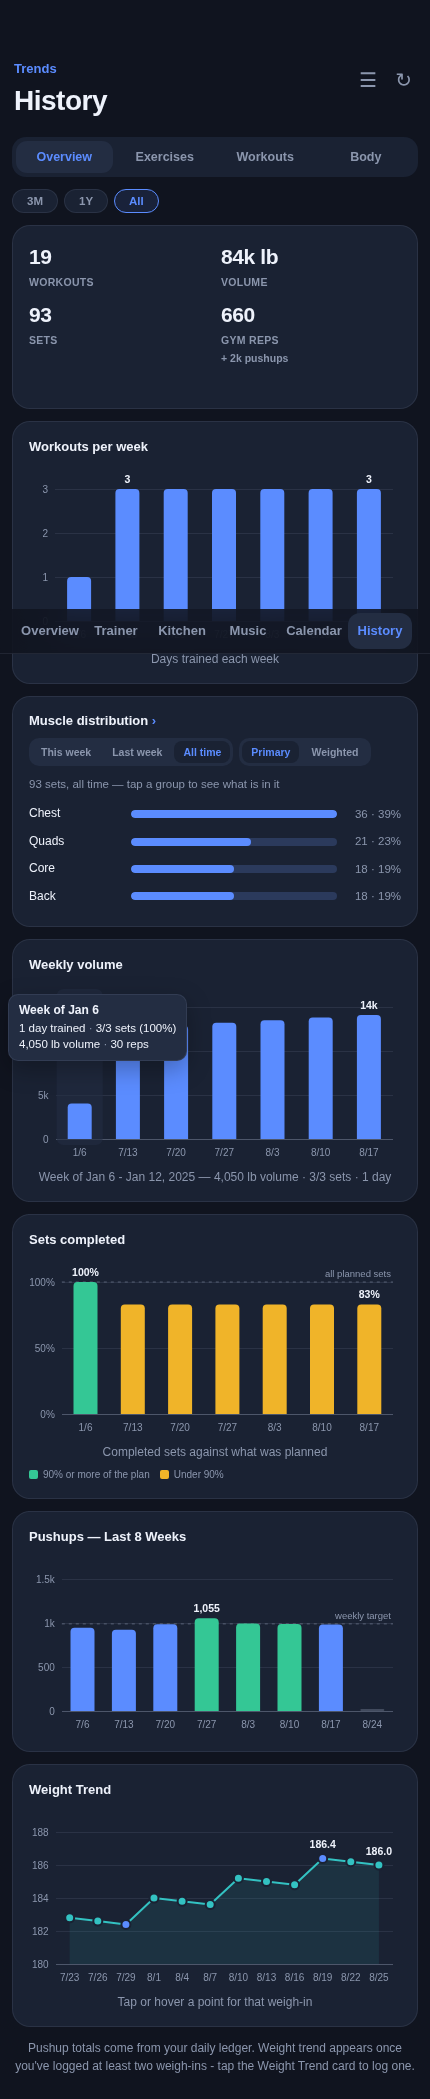
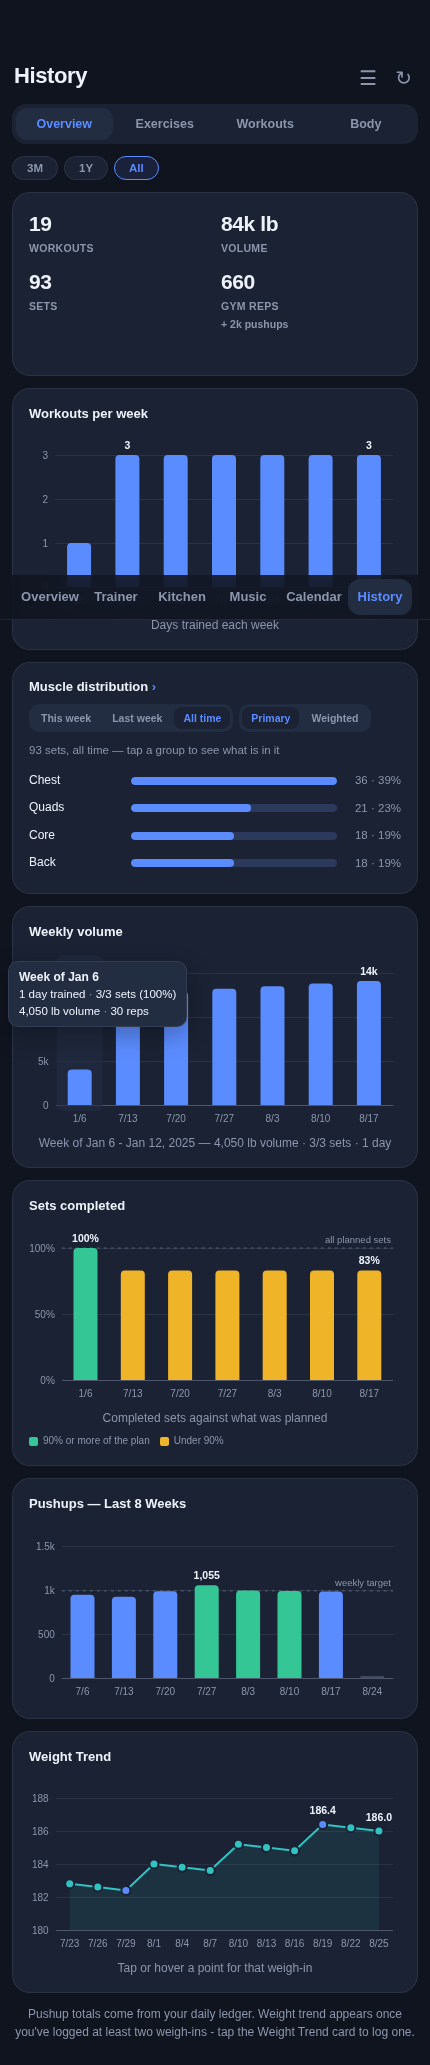
Drop the tab eyebrow line and shrink the page titles
"Trends" over History, "Body Health" over Health, "Kitchen" over
Kitchen - a line of chrome restating the title beneath it, on a screen
whose tab bar already says which tab you are on. Removed, and the title
goes 28px to 22px with tighter header padding.

Overview's eyebrow stays: it is the live week label, so dropping it
would cost information rather than chrome.

Scoped to the views. The same class names dress the modal sheets, where
28px is the established weight and there is no wasted column to reclaim,
so those are untouched. Kitchen's cook animation came down 76px to 48px
- at full size it set that header's height by itself, which is exactly
the space the smaller title was meant to give back.

The test renders the previous commit alongside the working tree and
compares where the first real content sits, because a header can shed a
line and gain it back in padding - that measures as a change and
reclaims nothing. Content moved up on all four tabs, 116px total:
History +33, Health +37, Kitchen +36, Overview +10.

Claude-Session: https://claude.ai/code/session_015iHyh9Ht31ffHsSsW3gFXR

diff --git a/test/test_page_heads.js b/test/test_page_heads.js
@@ -1,0 +1,150 @@
+/* The tab headers, after dropping the eyebrow line and shrinking the
+   title.
+
+   The assertion that matters is not "the title is 22px" - it is that the
+   CONTENT MOVED UP. A header can lose a line and gain it back in padding,
+   which measures as a change and reclaims nothing. So this measures the
+   same page twice, once from the previous commit and once from the working
+   tree, and compares where the first real content sits.
+
+   Also pinned: no tab lost its title or its buttons, Overview keeps its
+   week label (a live date, not a restatement of the title), and the modal
+   sheets - which share these class names - did NOT shrink with them. */
+const { chromium } = require('playwright');
+const { execFileSync } = require('child_process');
+const path = require('path');
+const fs = require('fs');
+const os = require('os');
+
+const REPO = path.resolve(__dirname, '..');
+const URL = 'file://' + path.join(REPO, 'Workout_Tracker_AutoLog.html');
+let fails = 0;
+const check = (l, ok, x = '') => { console.log(`  ${ok ? 'PASS' : 'FAIL'}  ${l}${x ? '  ' + x : ''}`); if (!ok) fails++; };
+
+// bodyhealth is not in viewOrder (its tab is display:none), so it is shown
+// directly rather than through the tab bar.
+const VIEWS = [
+  ['stats', 'History', '#view-stats'],
+  ['bodyhealth', 'Health', '#view-bodyhealth'],
+  ['kitchen', 'Kitchen', '#view-kitchen'],
+  ['overview', 'Overview', '#view-overview']
+];
+
+const measure = (page, sel) => page.evaluate(s => {
+  const view = document.querySelector(s);
+  const h = view.querySelector(':scope > .ov-page-head');
+  if (!h) return null;
+  const t = h.querySelector('.ov-page-title');
+  const eyebrow = h.querySelector('.ov-page-week');
+  let next = h.nextElementSibling;
+  while (next && next.getBoundingClientRect().height === 0) next = next.nextElementSibling;
+  return {
+    height: Math.round(h.getBoundingClientRect().height),
+    title: t ? t.textContent.trim() : null,
+    titlePx: t ? Math.round(parseFloat(getComputedStyle(t).fontSize)) : null,
+    eyebrow: eyebrow ? eyebrow.textContent.trim() : null,
+    buttons: h.querySelectorAll('button').length,
+    contentTop: next ? Math.round(next.getBoundingClientRect().top) : null
+  };
+}, sel);
+
+// bodyhealth has no tab, so reveal it the way the app would if it did.
+const show = (page, view) => page.evaluate(v => {
+  if (v === 'bodyhealth') {
+    document.querySelectorAll('.app-view').forEach(el => el.classList.remove('active'));
+    const el = document.getElementById('view-bodyhealth');
+    el.classList.add('active'); el.style.display = 'block';
+  } else { showAppView(v); }
+}, view);
+
+async function sweep(browser, url) {
+  const ctx = await browser.newContext({ viewport: { width: 430, height: 932 } });
+  const page = await ctx.newPage();
+  page.on('pageerror', e => { console.log('  PAGEERROR', String(e)); fails++; });
+  await page.route('https://script.google.com/**', r =>
+    r.fulfill({ status: 200, contentType: 'application/json', body: '{"status":"error"}' }));
+  await page.goto(url);
+  await page.waitForTimeout(900);
+  const out = {};
+  for (const [view, title, sel] of VIEWS) {
+    await show(page, view);
+    await page.waitForTimeout(350);
+    out[title] = await measure(page, sel);
+  }
+  const modalPx = await page.evaluate(() => {
+    const el = document.querySelector('#muscleBalanceOverlay .ov-page-title');
+    return el ? Math.round(parseFloat(getComputedStyle(el).fontSize)) : null;
+  });
+  await ctx.close();
+  return { out, modalPx, page: null };
+}
+
+(async () => {
+  // The previous commit, rendered as a baseline to measure the change against.
+  const base = path.join(os.tmpdir(), 'hx-head-baseline.html');
+  execFileSync('git', ['-C', REPO, 'show', 'HEAD:Workout_Tracker_AutoLog.html'],
+    { stdio: ['ignore', fs.openSync(base, 'w'), 'inherit'], maxBuffer: 1 << 28 });
+
+  const browser = await chromium.launch({ executablePath: '/opt/pw-browsers/chromium' });
+  const before = await sweep(browser, 'file://' + base);
+  const now = await sweep(browser, URL);
+
+  console.log('=== The content actually moved up ===');
+  let reclaimed = 0;
+  for (const [, title] of VIEWS) {
+    const b = before.out[title], a = now.out[title];
+    if (!b || !a || b.contentTop == null || a.contentTop == null) { check(`${title}: measurable`, false); continue; }
+    const gained = b.contentTop - a.contentTop;
+    reclaimed += gained;
+    check(`${title}: content starts higher than before`, gained > 0,
+      `${b.contentTop}px -> ${a.contentTop}px (${gained > 0 ? '+' : ''}${gained}px)`);
+    check(`${title}: the header itself is shorter`, a.height < b.height,
+      `${b.height}px -> ${a.height}px`);
+  }
+  console.log(`        ${reclaimed}px reclaimed across ${VIEWS.length} tabs`);
+
+  console.log('\n=== Each tab keeps its title and its controls ===');
+  for (const [, title] of VIEWS) {
+    const a = now.out[title];
+    check(`${title}: title still reads "${title}"`, a && a.title === title, a && a.title);
+    check(`${title}: title is 22px`, a && a.titlePx === 22, a && String(a.titlePx));
+  }
+
+  console.log('\n=== The eyebrow that only restated the title is gone ===');
+  ['History', 'Health', 'Kitchen'].forEach(title => {
+    check(`${title} has no eyebrow`, now.out[title].eyebrow === null, now.out[title].eyebrow);
+    check(`  (it had one before)`, before.out[title].eyebrow !== null, before.out[title].eyebrow);
+  });
+  // Overview's is a live week label, so removing it would cost information
+  // rather than chrome.
+  check('Overview keeps its week label', now.out.Overview.eyebrow !== null, now.out.Overview.eyebrow);
+
+  console.log('\n=== Nothing was stranded ===');
+  check('History still has both header buttons', now.out.History.buttons === 2,
+    String(now.out.History.buttons));
+  check('and it had two before', before.out.History.buttons === 2, String(before.out.History.buttons));
+
+  console.log('\n=== Modal sheets kept their own weight ===');
+  check('a sheet title is still 28px', now.modalPx === 28, String(now.modalPx));
+  check('unchanged from before', now.modalPx === before.modalPx,
+    `${before.modalPx} -> ${now.modalPx}`);
+
+  console.log('\n=== Nothing overflows ===');
+  const ctx = await browser.newContext({ viewport: { width: 430, height: 932 } });
+  const page = await ctx.newPage();
+  await page.route('https://script.google.com/**', r =>
+    r.fulfill({ status: 200, contentType: 'application/json', body: '{"status":"error"}' }));
+  await page.goto(URL);
+  await page.waitForTimeout(900);
+  for (const [view, title] of VIEWS) {
+    await show(page, view);
+    await page.waitForTimeout(300);
+    check(`${title} does not scroll sideways`, !(await page.evaluate(() =>
+      document.documentElement.scrollWidth > document.documentElement.clientWidth)));
+  }
+  await ctx.close();
+
+  await browser.close();
+  console.log(fails === 0 ? '\nALL PASS' : `\n${fails} FAILURES`);
+  process.exit(fails ? 1 : 0);
+})();

diff --git a/Workout_Tracker_AutoLog.html b/Workout_Tracker_AutoLog.html
@@ -292,9 +292,20 @@
   .ov-hero-sub { font-family: var(--font); font-size: 13px; color: var(--muted); margin-top: 4px; }
 
   /* Overview page header - plain text sitting on the page, no card chrome */
+  /* The eyebrow above each tab title is gone: "Trends" over History,
+     "Body Health" over Health, "Kitchen" over Kitchen - a line of chrome
+     restating the title under it, on a screen where the tab bar already
+     says which tab you are on. The class stays for the modals and for
+     Overview's week label, which carry something the title does not. */
   .ov-page-head { display: flex; justify-content: space-between; align-items: flex-start; padding: 4px 2px 16px; }
   .ov-page-week { font-family: var(--font); font-size: 13px; font-weight: 600; color: var(--accent); }
   .ov-page-title { font-family: var(--font); font-size: 28px; font-weight: 800; letter-spacing: -0.5px; margin-top: 2px; }
+  /* Tab headers only. The same classes dress the modal sheets, where a
+     28px title is the established weight and there is no wasted column of
+     chrome to reclaim - so the shrink is scoped to the views. */
+  .app-view > .ov-page-head { align-items: center; padding: 2px 2px 10px; }
+  .app-view > .ov-page-head .ov-page-title { font-size: 22px; letter-spacing: -0.4px; margin-top: 0; }
+  .app-view > .ov-page-head .ov-page-week + .ov-page-title { margin-top: 2px; }
   .ov-edit-btn { font-family: var(--font); font-size: 14px; font-weight: 600; color: var(--accent); background: none; border: none; padding: 6px 4px; margin-top: 4px; cursor: pointer; }
   .ov-page-head-actions { display: flex; align-items: center; gap: 10px; }
   .ov-gear-btn { font-size: 20px; line-height: 1; color: var(--muted); background: none; border: none; padding: 6px 4px; margin-top: 4px; cursor: pointer; }
@@ -688,7 +699,10 @@
   /* Small ambient cooking animation, top-right of the Kitchen tab - pure
      CSS keyframes (no JS) since it's just a looping stir + rising steam,
      unlike the pushup figure this doesn't need a tap-to-interrupt state. */
-  .cook-anim-svg { width: 76px; height: 76px; overflow: visible; }
+  /* Scaled with the title it sits beside - at 76px it set the Kitchen
+     header's height on its own, which is the wasted space the smaller
+     title was meant to reclaim. */
+  .cook-anim-svg { width: 48px; height: 48px; overflow: visible; }
   .cook-anim-line { fill: none; stroke: var(--accent); stroke-width: 6.5; stroke-linecap: round; stroke-linejoin: round; }
   .cook-anim-head { fill: var(--accent); }
   .cook-anim-panarm { transform-origin: 33px 33px; animation: panToss 1.4s ease-in-out infinite; }
@@ -2353,7 +2367,6 @@
 <div id="view-bodyhealth" class="app-view">
   <div class="ov-page-head">
     <div>
-      <div class="ov-page-week">Body Health</div>
       <div class="ov-page-title">Health</div>
     </div>
   </div>
@@ -2393,7 +2406,6 @@
 <div id="view-stats" class="app-view">
   <div class="ov-page-head">
     <div>
-      <div class="ov-page-week">Trends</div>
       <div class="ov-page-title">History</div>
     </div>
     <div class="ov-page-head-actions">
@@ -2623,7 +2635,6 @@
 <div id="view-kitchen" class="app-view">
   <div class="ov-page-head">
     <div>
-      <div class="ov-page-week">Kitchen</div>
       <div class="ov-page-title">Kitchen</div>
     </div>
     <svg viewBox="0 0 100 100" class="cook-anim-svg" aria-hidden="true">
@@ -11701,7 +11712,7 @@ function renderWeekWheel(days) {
 // after a refresh means the STALE copy is coming from somewhere upstream
 // of this page - a hosting/CDN cache or the wrong URL - not just a
 // simple browser cache needing a clear).
-const APP_BUILD_VERSION = '2026-08-25-overview-layout';
+const APP_BUILD_VERSION = '2026-08-25-tighter-heads';
 
 // Forces a genuinely fresh network fetch of this page, bypassing any
 // browser/PWA cache - a plain reload can still be served from cache,
